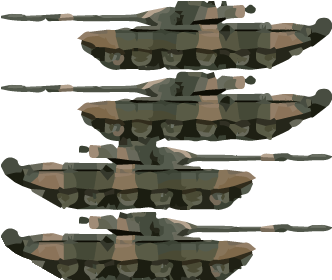
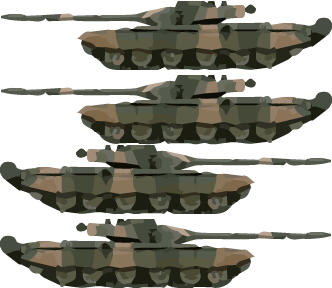
WE TANKS NOW

diff --git a/src/components/tank.js b/src/components/tank.js
@@ -5,7 +5,7 @@ Crafty.c("Tank", {
   ,speed: 1
 
   ,init: function(){
-    this.requires("2D, Canvas, tankleft, Color, Collision, ViewportConstrain, MoveByCenter, Destroyable");
+    this.requires("2D, Canvas, Color, Collision, ViewportConstrain, MoveByCenter, Destroyable, SpriteAnimation");
 
     this.attr({
       y: Crafty.math.randomInt(Crafty.viewport.horizonx, Crafty.viewport.height-400)
@@ -17,7 +17,7 @@ Crafty.c("Tank", {
 
     this.requires("Enemy");
     this.bulletType = this.bulletType + ", BigBullet";
-    
+    this.bind("Moved", this.movingAnimation);
     // this.bind("Moved", function(previous){
     //   if(this.enteredviewport == true && (this.x + this.w) > Crafty.viewport.width || (this.x-this.w) < 0){
     //     this.destroy(); //destroy tanks once they've moved off screen
@@ -27,9 +27,13 @@ Crafty.c("Tank", {
 
   ,movingAnimation: function(movedata){
     if(this.direction == 1){
-      this.animate('MovingRight',25,-1);
+      this.requires('tankright');
+      this.animate('MovingRight',[[0,2],[0,3]]);
+      this.animate('MovingRight', 25,-1);
     }else{
-      this.animate('MovingLeft', 25,-1);
+      this.requires('tankleft');
+      this.animate('MovingLeft',[[0,0],[0,1]]);
+      this.animate('MovingLeft',25,-1);
     }
   }
   

diff --git a/src/sprites.js b/src/sprites.js
@@ -45,7 +45,7 @@ Crafty.sprite(286,186,"resources/images/building.png",{
 	building1: [0,0]
 });
 
-Crafty.sprite(332,70,"resources/images/tankroll.png",{
+Crafty.sprite(332,72,"resources/images/tankroll.png",{
 	tankleft: [0,0],
 	tankright: [0,2]
 });
@@ -76,14 +76,12 @@ Crafty.sprite(40,60,"resources/images/grenade.png",{
 
 Crafty.sprite(10,"resources/images/bullet.png",{
 	bullet1: [0,0]
-//this.animate('Bullet',0,0,7);
 });
 
 Crafty.sprite(20,"resources/images/heavybullet.png",{
 	bullet2: [0,0]
-//this.animate('Bullet',0,0,7);
 });
 
 Crafty.sprite(70,80,"resources/images/muzzelflash.png",{
-	muzzelflash1: [0,0]
+	muzzleflash1: [0,0]
 });

diff --git a/src/components/player.js b/src/components/player.js
@@ -7,7 +7,7 @@ Crafty.c("Player", {
 	,init: function(){
      this.requires("2D, Canvas, player1, ViewportConstrain, MoveByCenter, Destroyable, PlayerControls, SpriteAnimation");
 
-     var muzzleflash = Crafty.e("2D, Canvas, muzzleflash, SpriteAnimation")
+     var muzzleflash = Crafty.e("2D, Canvas, muzzleflash1, SpriteAnimation")
      .attr({
         x: this.centerX(),
         y: this.centerY(),
